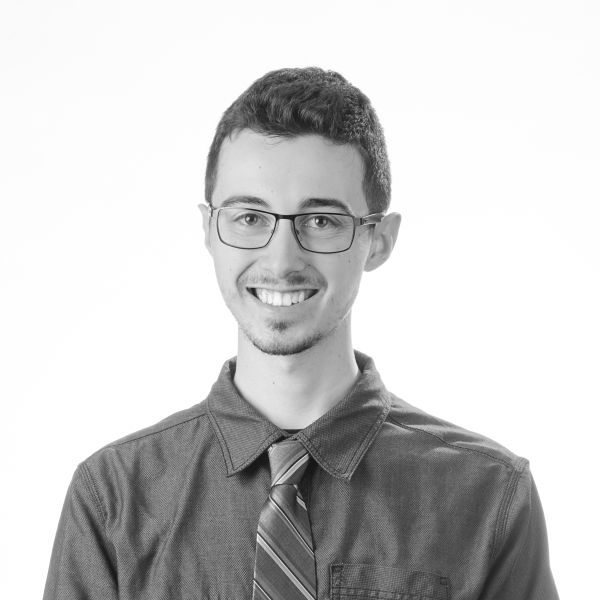
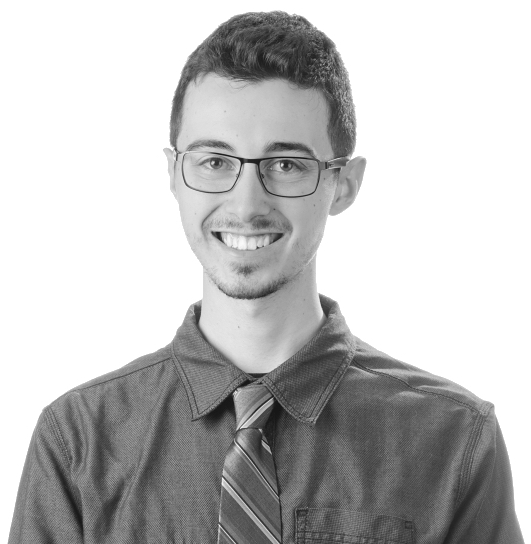
make the "cool guy" remark in a tool tip. Add a typing animation

Changed region(s): [[0.0, 0.0, 0.9944, 1.0]]

diff --git a/personal-website-app/src/app/about-me/about-me.component.scss b/personal-website-app/src/app/about-me/about-me.component.scss
@@ -4,11 +4,14 @@
     display: flex;
     justify-content: center;
     margin-top: 10px;
-    margin-bottom: 2rem;
+    margin-bottom: 2em;
 }
 
 .title {
+    font-size: 32px;
+    font-weight: 700;
     text-align: center;
+    margin: 1em 0 0.3em;
 }
 
 .portrait {
@@ -21,23 +24,15 @@
     height: 40%;
 }
 
-.pretty-cool-guy {
-    width: 25%;
-    height: 8%;
-    position: absolute;
-    right: 7rem;
-    top: 7rem;
-}
-
 .quote-and-personality {
-    margin-bottom: 2rem;
+    margin-bottom: 2em;
     display: flex;
 }
 
 .software-text {
-    margin-top: 0.5rem;
-    margin-bottom: 0.5rem;
-    font-size: 1.3rem;
+    margin-top: 0.5em;
+    margin-bottom: 0.5em;
+    font-size: 1.3em;
     font-family: serif;
     margin-left: 15px;
     width: 50%;
@@ -48,19 +43,20 @@
     text-align: center;
     padding-right: 15px;
     border-right: 1px solid $light-grey;
-    font-size: 3.5rem;
+    font-size: 3.5em;
     width: 50%;
 }
 
 .by-sheen {
     display: flex;
     vertical-align: middle;
-    font-size: 0.9rem;
+    font-size: 0.3em;
+    font-weight: 300;
 }
 
 .about-me-image-container {
     width: 100%;
-    margin-bottom: 0.7rem;
+    margin-bottom: 0.7em;
     position: relative;
     text-align: center;
     color: white;
@@ -70,7 +66,7 @@
     }
 
     .centered-text-over-image {
-        font-size: 1.8rem;
+        font-size: 1.8em;
         position: absolute;
         top: 85%;
         left: 50%;

diff --git a/personal-website-app/src/app/about-me/about-me.component.html b/personal-website-app/src/app/about-me/about-me.component.html
@@ -1,14 +1,20 @@
 <div id="about-me">
-  <h1 class="title">
-    Hi! My name is Parker.
-  </h1>
+  <div class="title">
+    <span typingAnimation [typeSpeed]="80" [startDelay]="800" [hideCursorOnComplete]="true" (complete)="onFirstTypingAnimationComplete()">
+      Hi!
+    </span>
+    <span *ngIf="greetingCompleted" typingAnimation [typeSpeed]="60" [startDelay]="1300" [hideCursorOnComplete]="true">
+      My name is Parker.
+    </span>
+  </div>
+
   <div class="portrait">
-    <img class="parker-image" align="middle" src="../../assets/about-me/parker_reese.jpg" alt="Parker Reese Portrait">
-    <img class="pretty-cool-guy" align="middle" src="../../assets/about-me/cool-guy.png" alt="Pretty Cool Guy">
+    <img class="parker-image" align="middle" src="../../assets/about-me/parker_reese.jpg" alt="Parker Reese Portrait" matTooltip="Pretty cool guy! >"
+      matTooltipPosition="before">
   </div>
   <mat-chip-list class="traits-chips">
-    <mat-chip *ngFor="let trait of traitsList" selected="true" [color]="colorMap.get(trait)" (click)="changeChipColor($event)"> 
-      {{trait}} 
+    <mat-chip *ngFor="let trait of traitsList" selected="true" [color]="colorMap.get(trait)" (click)="changeChipColor($event)">
+      {{trait}}
     </mat-chip>
   </mat-chip-list>
   <div class="quote-and-personality">

diff --git a/personal-website-app/src/app/app.module.ts b/personal-website-app/src/app/app.module.ts
@@ -6,18 +6,22 @@ import { MatTabsModule } from '@angular/material/tabs';
 import { AppComponent } from './app.component';
 import { AboutMeComponent } from './about-me/about-me.component';
 import { BrowserAnimationsModule } from '@angular/platform-browser/animations';
+import { MatTooltipModule } from '@angular/material/tooltip';
+import { TypingAnimationDirective } from 'angular-typing-animation'
 
 @NgModule({
   declarations: [
     AppComponent,
-    AboutMeComponent
+    AboutMeComponent,
+    TypingAnimationDirective
   ],
   imports: [
     BrowserModule,
     MatCardModule,
     MatChipsModule,
     MatTabsModule,
-    BrowserAnimationsModule
+    BrowserAnimationsModule,
+    MatTooltipModule
   ],
   providers: [],
   bootstrap: [AppComponent]

diff --git a/personal-website-app/src/app/about-me/about-me.component.ts b/personal-website-app/src/app/about-me/about-me.component.ts
@@ -9,6 +9,7 @@ import { OnInit } from '@angular/core';
 export class AboutMeComponent implements OnInit {
   traitsList = ['Hard Working', 'Motivated', 'Team Player', 'Open Minded', 'Data Driven', 'Independant'];
   colorMap: Map<string, string> = new Map();
+  greetingCompleted = false;
 
   ngOnInit() {
     this.traitsList.forEach(trait => {
@@ -21,4 +22,7 @@ export class AboutMeComponent implements OnInit {
     this.colorMap.set(trait, this.colorMap.get(trait) === 'primary' ? 'accent' : 'primary');
   }
 
+  onFirstTypingAnimationComplete () {
+    this.greetingCompleted = true;
+  }
 }
